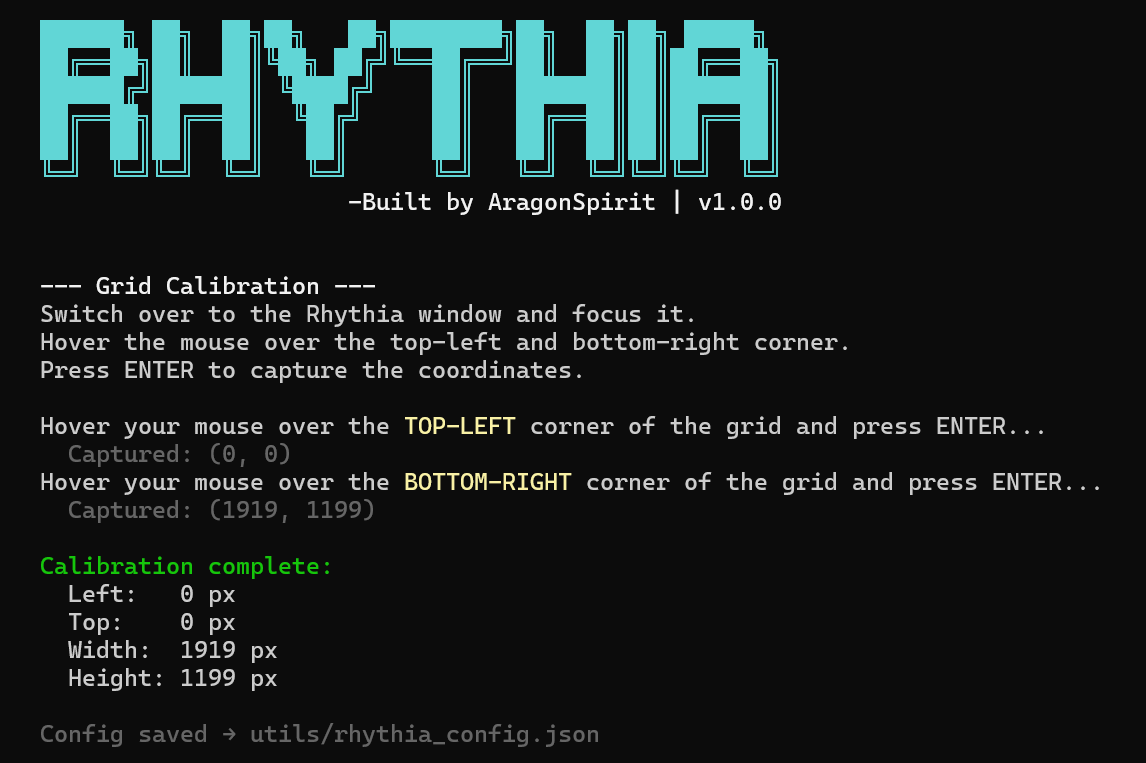
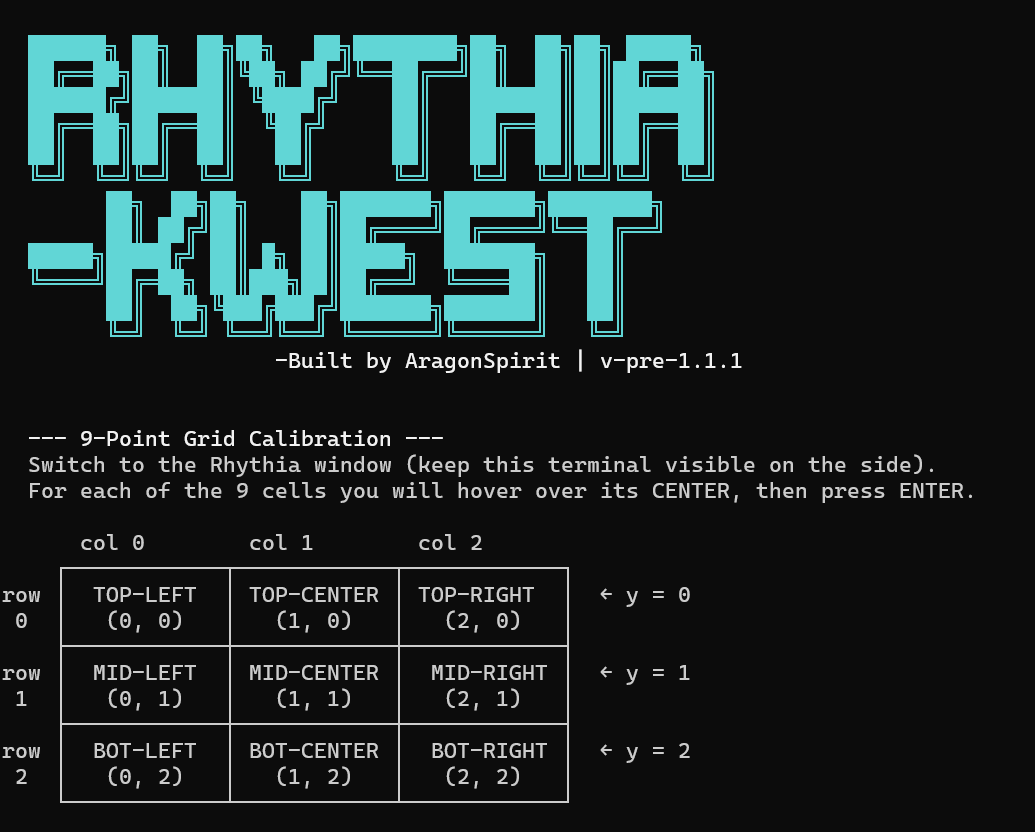
Stable Release v-pre-1.1.1
Changed the screenshots and the README.md

diff --git a/src/rhythia_autoplay.py b/src/rhythia_autoplay.py
@@ -281,9 +281,14 @@ def calibrate(cfg: dict) -> dict:
 #  AUDIO LOOPBACK SYNC  (WASAPI, Windows)
 # ═════════════════════════════════════════════════════════════════════════════
 
+# Device name fragments that identify a loopback/virtual audio input.
+# Add more entries here if you use a different virtual cable product.
+_LOOPBACK_HINTS = ("loopback", "cable output", "stereo mix", "wave out mix")
+
 def find_loopback_device() -> int | None:
     """
-    Search for a WASAPI loopback input device that mirrors system audio output.
+    Search for a WASAPI input device that mirrors system audio output.
+    Matches by checking if any hint string appears in the lowercase device name.
     Returns the sounddevice device index, or None if not found.
     """
     if not AUDIO_SYNC_AVAILABLE:
@@ -298,22 +303,19 @@ def find_loopback_device() -> int | None:
             return None
 
         for i, dev in enumerate(sd.query_devices()):
-            if dev["hostapi"] == wasapi_idx and dev["max_input_channels"] > 0:
-                if "loopback" in dev["name"].lower():
-                    return i
+            if dev["hostapi"] != wasapi_idx:
+                continue
+            if dev["max_input_channels"] < 1:
+                continue
+            name_lower = dev["name"].lower()
+            if any(hint in name_lower for hint in _LOOPBACK_HINTS):
+                return i
     except Exception:
         pass
     return None
 
 
 def wait_for_audio(stop_event: threading.Event, cfg: dict) -> float | None:
-    """
-    Block until system audio is detected via WASAPI loopback, or until
-    stop_event is set or the timeout expires.
-
-    Returns time.perf_counter() at the exact moment audio was first detected,
-    or None if detection failed / timed out.
-    """
     device_idx = find_loopback_device()
     if device_idx is None:
         return None
@@ -321,8 +323,38 @@ def wait_for_audio(stop_event: threading.Event, cfg: dict) -> float | None:
     threshold = cfg.get("audio_threshold", 0.01)
     timeout   = cfg.get("audio_timeout",   60)
 
+    # Query the device's native sample rate instead of assuming 44100
+    device_info = sd.query_devices(device_idx)
+    samplerate  = int(device_info["default_samplerate"])
+
     detected_at    = [None]
     detected_event = threading.Event()
+
+    def _callback(indata, frames, time_info, status):
+        if detected_event.is_set() or stop_event.is_set():
+            raise sd.CallbackStop()
+        rms = float(np.sqrt(np.mean(indata.astype(np.float32) ** 2)))
+        if rms > threshold:
+            detected_at[0] = time.perf_counter()
+            detected_event.set()
+            raise sd.CallbackStop()
+
+    try:
+        with sd.InputStream(
+            device=device_idx,
+            channels=1,
+            samplerate=samplerate,   # ← uses the device's own rate
+            blocksize=512,
+            callback=_callback,
+        ):
+            print(c(f"  [AUDIO] Listening on '{device_info['name']}' @ {samplerate} Hz...", DIM))
+            print(c("  Press F3 to abort.", DIM))
+            detected_event.wait(timeout=timeout)
+    except Exception as e:
+        print(c(f"  [AUDIO] Stream error: {e}", YELLOW))
+        return None
+
+    return detected_at[0]
 
     def _callback(indata, frames, time_info, status):
         if detected_event.is_set() or stop_event.is_set():
@@ -664,7 +696,3 @@ def main():
 
 if __name__ == "__main__":
     main()
-
-
-
-# TODO: rewrite the code & README.md for version 1.1.1 -> Audio Handling; New Calibration System; Note hitting problem fix

diff --git a/docs/README.md b/docs/README.md
@@ -33,23 +33,26 @@ Loads any `.sspm` (Sound Space Plus Map) file using the `pysspm-rhythia` library
 ### Grid Calibration Wizard
 On first launch or when passed the `--calibrate` flag, a wizard guides you through aligning the bot to your screen.
 
-### DirectInput Mouse Control
-Mouse movement and clicks are performed via `pydirectinput`, which is better than `Pyautogui` as it bypasses the Windows message queue.
-
 ### Pause & Resume
-You can press **ESC** to pause and ress **ESC** again to resume.
+You can press **ESC** to pause, then **ESC** again to resume.
+
+### Audio Handling
+The bot will automatically play the map's audio track when it starts.
 
 ### Emergency Stop
 If your PC is about to blow up, press **F3** at any time to immediately exit the tool.
 
 ### Live Progress Bar
-A compact progress bar is printed to the terminal showing percentage completion and the raw note counter
+A progress bar is printed to the terminal showing percentage completion and the raw note counter
 
-### Persistent Configuration
-All settings (grid position, timing offset, countdown duration, hotkeys) are stored in `utils/rhythia_config.json`. Manual edits to this file are respected on the next launch. Running `--calibrate` overwrites only the grid coordinates.
+### Configuration
+All settings are stored in `utils/rhythia_config.json`. Manual edits to this file are respected on the next launch. Running `--calibrate` overwrites only the grid coordinates.
 
 ---
-
+## Changelog
+- **v-1.0.0** - Initial release.
+- **v-pre-1.1.1** - Added audio handling and remaking of calibration system
+- **v-1.1.1** - *Coming soon...*
 ## Requirements
 
 - **Python 3.10+**
@@ -89,6 +92,8 @@ pip install -r utils/requirements.txt
 ---
 
 ## Usage
+> [!WARNING]
+> >Inside Rhythia, change mouse settings from **"Relative"** to **"Absolute"** or else the tool will **NOT** work.
 
 ### First run (calibration required)
 
@@ -138,4 +143,7 @@ python rhythia_autoplay.py "runs/my_map.sspm" --countdown 3
 
 ---
 
-## Built by AragonSpirit - v1.0.0
+<br>
+
+## Built by AragonSpirit
+## ***v-pre-1.1.1***
